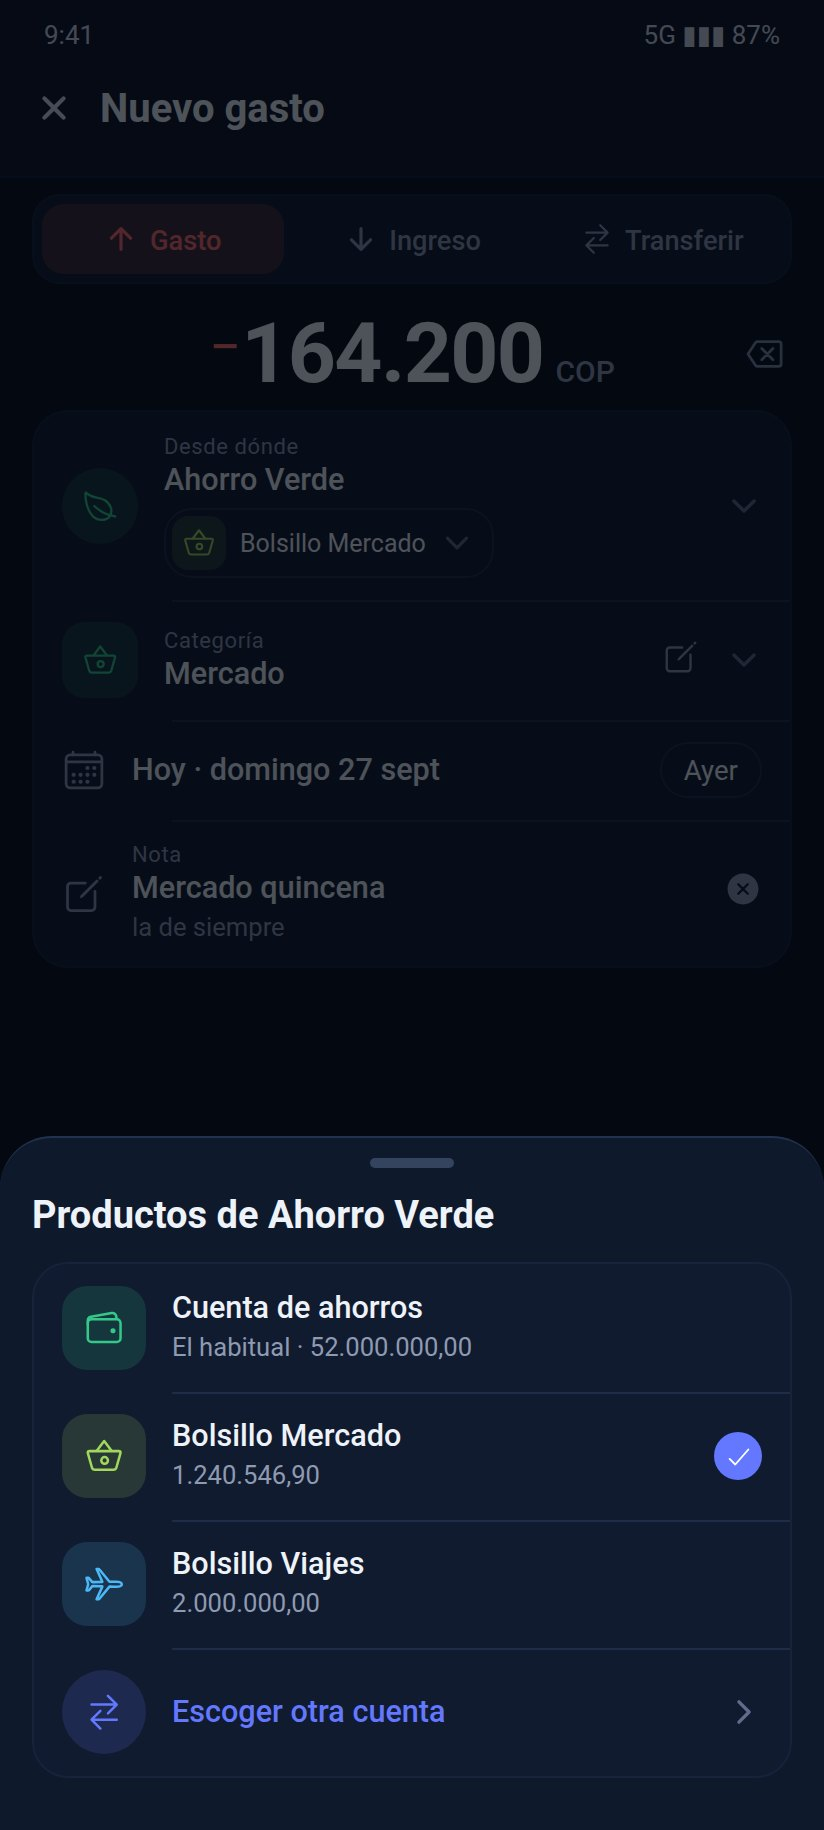
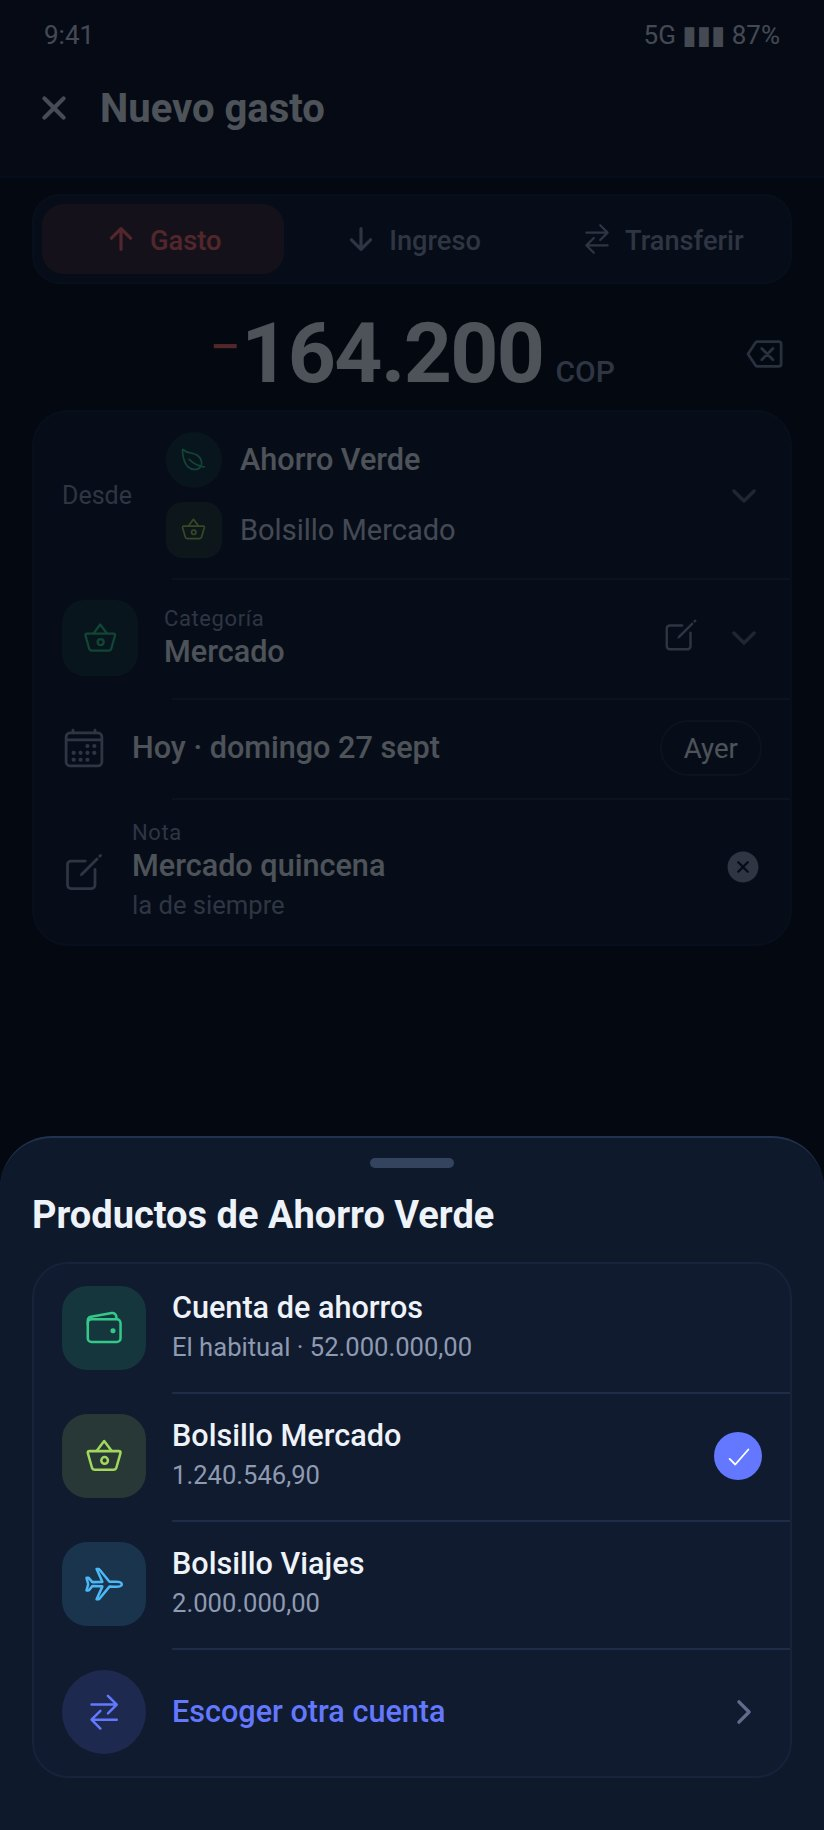
Compact the ends of every movement and turn hints into an (i)
Each end is the side in a narrow column, the account on one line and its
product on the next, each with its own icon (circle and rounded square),
with Invertir on the dividing line. Explanations become an (i) with a
bubble, the Invertir outcome a passing notice, the same-product error a
red product line. Long names shown sliding.

Claude-Session: https://claude.ai/code/session_01QyUqFix1SMdsKVBtd1Wz88

diff --git a/docs/mockups/README.md b/docs/mockups/README.md
@@ -21,7 +21,7 @@ is redone, and superseded by Jose's review of 2026-09-28.
 | `1a`–`1n` | Group 1 (v5): Inicio (transfers apart, the donut with a capped legend), one account with products (its two quick buttons), one account with a long name (ellipsis and sliding), the "+" sheet, the movement form for spending, writing a note, a transfer, a move between products, two currencies, the account, product and category lists, editing and deleting |
 | `2a`–`2r` | Group 2 (v4): Cuentas (net worth, sorting, a multi-currency account, a card, one set aside), where net worth comes from, currencies and rates, typing a rate, adding a currency, a new account by hand and from a statement (reading it, and the form it fills), editing a card (top and bottom, the limit and its history), deleting, the icon, colour and own image, the archived, no accounts yet, an account whose face is its own image (`2q`) and its colour behind that image (`2r`) |
 | `3a`–`3j` | Group 3 (v4): Categorías closed and open, which list for a new one, editing (Para locked), a new one, the investment-return switch, the face's icon, colour and own image, the archived |
-| `4t01`–`4t11` | Group 4: every transfer with products - between two products of one account, choosing the product it leaves from, product to an account, account to a product, choosing the product it lands in, between two accounts with products, into a product set aside from net worth, into another currency, after "Invertir", the same product on both ends, editing one |
+| `4t01`–`4t13` | Group 4: every transfer with products, each end compact (account and product on two lines, two shapes) - the (i) help opened (`4t01b`), long names and their slide (`4t12`, `4t13`), between two products of one account, choosing the product it leaves from, product to an account, account to a product, choosing the product it lands in, between two accounts with products, into a product set aside from net worth, into another currency, after "Invertir", the same product on both ends, editing one |
 | `4a`–`4zz` | Group 4 (v5): Rendimientos in the Cuentas tab, adding an account; an account's page with its selector (Productos, Movimientos, Pagos, Días), one day corrected or set to zero, stopping it; a product with its selector (Producto, Saldo said as a sum, Tasa, one using the account's rate, a new rate, Bonificación and a new one), deleting it and choosing where its balance goes; a CDT (CDT, Al vencer and choosing where it pays, Pagos); a new product's Saldo; a product's own income and expense with "¿Qué cambia?" as one row opening a sheet, and the note |
 | `d01`–`d05` | Report (money, yields), reading a statement, Por revisar (and choosing several) |
 | `d06`–`d07` | Avisos del banco, without and with permission |

diff --git a/CLAUDE.md b/CLAUDE.md
@@ -2221,6 +2221,21 @@ does today, with these changes of ACCESS for Jose to accept or refuse:
   drawn; a product set aside from net worth says quietly that the money
   then counts as leaving (rule 5). Every note row is labelled "Nota",
   group 1's included.
+- **One end of a movement, compact** (Jose, 2026-09-28, v6 - applies to
+  every movement form, group 1's included): the side ("Desde", "Hacia",
+  "Pasa a") in a narrow column at the left; the account on one line and,
+  under it, its product on another, each with its own icon at the same
+  size - the account in a circle, the product in a rounded square - and no
+  box around the product. The two icons read as two things because they
+  are two lines and two shapes. "Invertir" sits on the dividing line
+  between the two ends.
+- **An explanation is an (i), not a paragraph**: a small (i) beside what it
+  explains opens a bubble on tap (`4t01b`); a one-off outcome, such as the
+  amount cleared after "Invertir", is a short notice that goes away by
+  itself; an error marks the thing that is wrong ("Bolsillo Viajes · elige
+  otro producto" in red), without a line of its own.
+- **Long account and product names slide** in every end and every list
+  (`marquee.service.ts`, shown in `4t12` and `4t13`).
 - (The black areas in the contact sheets sent before were empty slots,
   not screens: nothing was missed. The sheets are now as wide as what
   they hold.)
